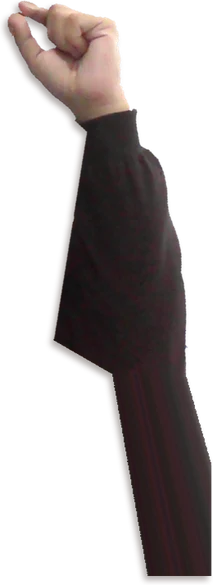
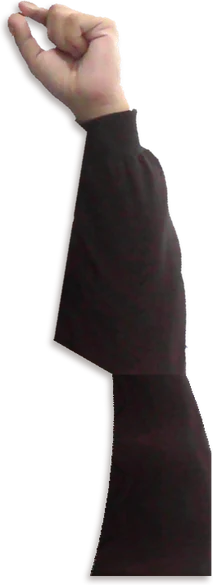
Stop the sleeve ending in mid-air over the sash
Three things were cutting it short. The synthetic sleeve ran almost
parallel to the round photo's edge, so a sliver of gown showed beside
it and the arm looked severed; it now flares wide enough to always
reach past that edge, and the overdraw is clipped anyway. It kept the
forearm's angle all the way down and left through the side of the
circle; it now eases inwards, towards where an elbow would be. And it
was one row of fabric repeated, which striped; it now walks up and down
a band of real sleeve and darkens as it falls.

diff --git a/assets/profile-shades/source/2-bake.py b/assets/profile-shades/source/2-bake.py
@@ -17,6 +17,9 @@ FINISH = float(sys.argv[3]) if len(sys.argv) > 3 else 0.82   # the whole layer, 
 RENDER = 720                      # the photo's baking width, as in the SVG sources
 PX, PY = 0.683*RENDER, 0.261*RENDER
 SKIN_TARGET = np.array([200.0, 165.0, 150.0])   # the portrait's cheek, a shade darker
+SLEEVE_LEAN = 13.0                              # the forearm's lean where the photo runs out
+SLEEVE_FLARE = 0.9                              # how much wider the sleeve gets by the bottom
+SLEEVE_INWARD = -7.0                            # and where that lean has eased to by the frame's bottom
 
 # ---- grade: the webcam is grey and hazy next to the studio portrait
 cut = Image.open(BAKE+'/hand-cut.png')
@@ -64,13 +67,34 @@ y_src = ys.max() - 46                      # a clean row above the diagonal cut
 xs = np.nonzero(al[y_src])[0]
 x0, x1 = xs.min(), xs.max()
 row = arr[y_src:y_src+1, x0:x1+1].copy()
-lean = math.radians(13)
+lean = math.radians(SLEEVE_LEAN)
 ext_rows = RENDER + 160 - (y_src+1)
+# The forearm runs towards the elbow, which sits near the body, so the sleeve eases inwards as it
+# falls. Straight on the arm's own angle it leaves through the side of the round photo and gets
+# clipped flat, which reads as a severed arm.
+# Repeating one row leaves vertical streaks where the fabric should have grain, so the extension
+# walks up and down a band of real sleeve instead.
+band = []
+for by in range(max(0, y_src-79), y_src+1):
+    bxs = np.nonzero(al[by])[0]
+    if len(bxs) > 20:
+        band.append(arr[by:by+1, bxs.min():bxs.max()+1].copy())
+if not band:
+    band = [row]
+
+dx = 0.0
 for i, y in enumerate(range(y_src+1, RENDER + 160)):
-    # a fixed total flare: widening per row would fatten the sleeve whenever the hand shrinks
-    w = round((x1-x0+1) * (1 + 0.30*i/max(1, ext_rows)))
-    x = round(x0 + i*math.tan(lean) - (w-(x1-x0+1))/2)
-    strip = np.asarray(Image.fromarray(row.astype('uint8')).resize((w,1), Image.BICUBIC)).astype(float)[0]
+    k = i / max(1, ext_rows)
+    dx += math.tan(lean * (1 - k) + math.radians(SLEEVE_INWARD) * k)
+    # Flares wide enough that the sleeve always reaches past the round photo's edge: a narrower one
+    # runs almost parallel to that edge and leaves a sliver of gown showing beside it. The overdraw
+    # is clipped away, so it costs nothing.
+    w = round((x1-x0+1) * (1 + SLEEVE_FLARE*k))
+    x = round(x0 + dx - (w-(x1-x0+1))/2)
+    j = i % (2*len(band) - 2) if len(band) > 1 else 0
+    src = band[j if j < len(band) else 2*len(band)-2-j]            # ping-pong, so the grain never jumps
+    strip = np.asarray(Image.fromarray(src.astype('uint8')).resize((w,1), Image.BICUBIC)).astype(float)[0]
+    strip[:, :3] *= 1 - 0.14*k                                      # the arm recedes as it falls
     x = max(0, min(x, arr.shape[1]-1))
     strip = strip[:arr.shape[1]-x]
     arr[y, x:x+len(strip)] = strip
